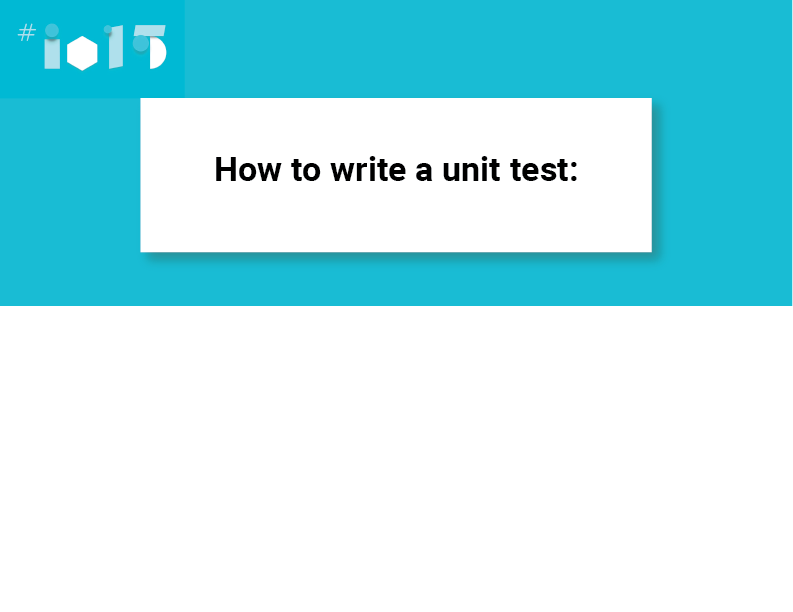
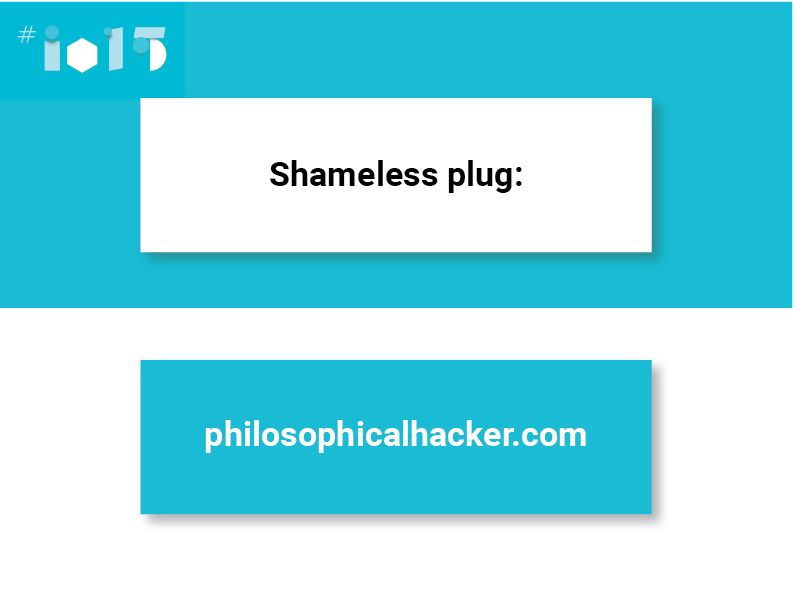
added comments and ActivityUnitTestCase for discussion on definition of unit test

diff --git a/android/src/androidTest/java/com/google/samples/apps/iosched/MyActivityUnitTestCase.java b/android/src/androidTest/java/com/google/samples/apps/iosched/MyActivityUnitTestCase.java
@@ -1,19 +1,93 @@
+/*
+ * Copyright (C) 2013 The Android Open Source Project
+ *
+ * Licensed under the Apache License, Version 2.0 (the "License");
+ * you may not use this file except in compliance with the License.
+ * You may obtain a copy of the License at
+ *
+ *      http://www.apache.org/licenses/LICENSE-2.0
+ *
+ * Unless required by applicable law or agreed to in writing, software
+ * distributed under the License is distributed on an "AS IS" BASIS,
+ * WITHOUT WARRANTIES OR CONDITIONS OF ANY KIND, either express or implied.
+ * See the License for the specific language governing permissions and
+ * limitations under the License.
+ */
 package com.google.samples.apps.iosched;
 
+import android.content.Intent;
 import android.test.ActivityUnitTestCase;
+import android.test.suitebuilder.annotation.MediumTest;
+import android.widget.Button;
 
 import com.google.samples.apps.iosched.ui.sessiondetail.SessionDetailActivity;
 
 /**
- * Created by MattDupree on 5/25/15.
+ * Tests LaunchActivity in isolation from the system.
  */
-public class MyActivityUnitTestCase extends ActivityUnitTestCase<SessionDetailActivity>{
+public class MyActivityUnitTestCase extends ActivityUnitTestCase<SessionDetailActivity> {
+
+    private static final double STRING_PAYLOAD = 1;
+    private static final String EXTRAS_PAYLOAD_KEY = "key";
+    private Intent mLaunchIntent;
 
     public MyActivityUnitTestCase() {
         super(SessionDetailActivity.class);
     }
 
-    public void testShouldAddSessionToCalendar() {
 
+    @Override
+    protected void setUp() throws Exception {
+        super.setUp();
+        //Create an intent to launch target Activity
+        mLaunchIntent = new Intent(getInstrumentation().getTargetContext(),
+                                   SessionDetailActivity.class);
+    }
+
+    @MediumTest
+    public void testLaunchNextActivityButton_labelText() {
+        startActivity(mLaunchIntent, null, null);
+        final Button launchNextButton = (Button) getActivity().findViewById(R.id.launch_next_activity_button);
+
+        final String expectedButtonText = getActivity().getString(R.string.label_launch_next);
+        assertEquals("Unexpected button label text", expectedButtonText,
+                     launchNextButton.getText());
+    }
+
+
+    /**
+     * Tests the preconditions of this test fixture.
+     */
+    @MediumTest
+    public void testPreconditions() {
+        //Start the activity under test in isolation, without values for savedInstanceState and
+        //lastNonConfigurationInstance
+        startActivity(mLaunchIntent, null, null);
+        final Button launchNextButton = (Button) getActivity().findViewById(R.id.launch_next_activity_button);
+
+        assertNotNull("mLaunchActivity is null", getActivity());
+        assertNotNull("mLaunchNextButton is null", launchNextButton);
+    }
+
+    @MediumTest
+    public void testNextActivityWasLaunchedWithIntent() {
+        startActivity(mLaunchIntent, null, null);
+        final Button launchNextButton = (Button) getActivity().findViewById(R.id.launch_next_activity_button);
+        //Because this is an isolated ActivityUnitTestCase we have to directly click the
+        //button from code
+        launchNextButton.performClick();
+
+        // Get the intent for the next started activity
+        final Intent launchIntent = getStartedActivityIntent();
+        //Verify the intent was not null.
+        assertNotNull("Intent was null", launchIntent);
+        //Verify that LaunchActivity was finished after button click
+        assertTrue(isFinishCalled());
+
+
+        final String payload = launchIntent.getStringExtra(EXTRAS_PAYLOAD_KEY);
+        //Verify that payload data was added to the intent
+        assertEquals("Payload is empty", STRING_PAYLOAD
+                , payload);
     }
 }

diff --git a/android/src/test/java/com/google/samples/apps/iosched/test/SessionDetailPresenterTests.java b/android/src/test/java/com/google/samples/apps/iosched/test/SessionDetailPresenterTests.java
@@ -29,6 +29,8 @@ import static org.mockito.Mockito.when;
 /**
  *
  * Created by MattDupree on 5/24/15.
+ *
+ * TODO Tests are not as clean as I'd like. They should be cleaner once the presenter is broken out into binders
  */
 @RunWith(MockitoJUnitRunner.class)
 public class SessionDetailPresenterTests {
@@ -57,19 +59,23 @@ public class SessionDetailPresenterTests {
     @Mock
     SessionCalendarServiceStarter mSessionCalendarServiceStarter;
 
+    //How to write a unit test
     @Test
     public void shouldLaunchAddSessionToCalendarService() {
 
+        //Arrange
         when(mCursor.getInt(SessionsQuery.IN_MY_SCHEDULE)).thenReturn(0);
         when(mCursor.getLong(SessionsQuery.START)).thenReturn(System.currentTimeMillis() + 10000);
+        //Notice dependency injection is crucial
         SessionDetailPresenter sessionDetailPresenter = new SessionDetailPresenter(
                 mSessionDetailActivity, mImageLoader, mColorUtils, mAccountRepository, mResources,
                 mSessionCalendarServiceStarter);
 
         sessionDetailPresenter.onLoadFinished(mLoader, mCursor);
         sessionDetailPresenter.onSessionStarred();
+        //Act
         sessionDetailPresenter.onStop();
-
+        //Assert
         verify(mSessionCalendarServiceStarter).startAddSessionService(any(Uri.class), anyLong(),
                                                                       anyLong(), anyString(),
                                                                       anyString());
